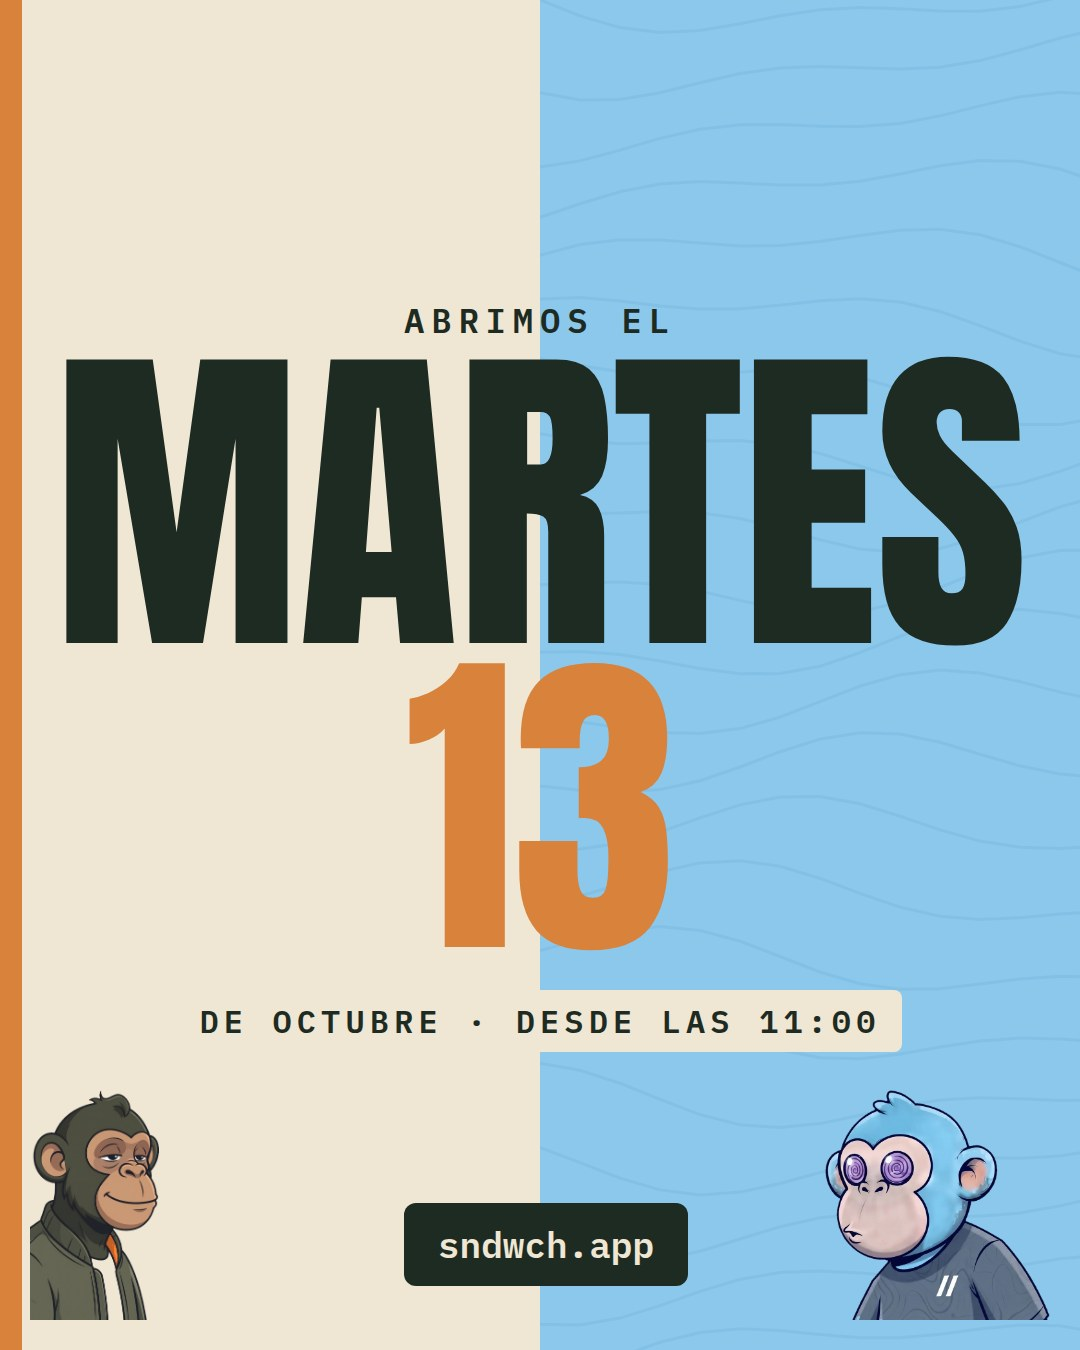
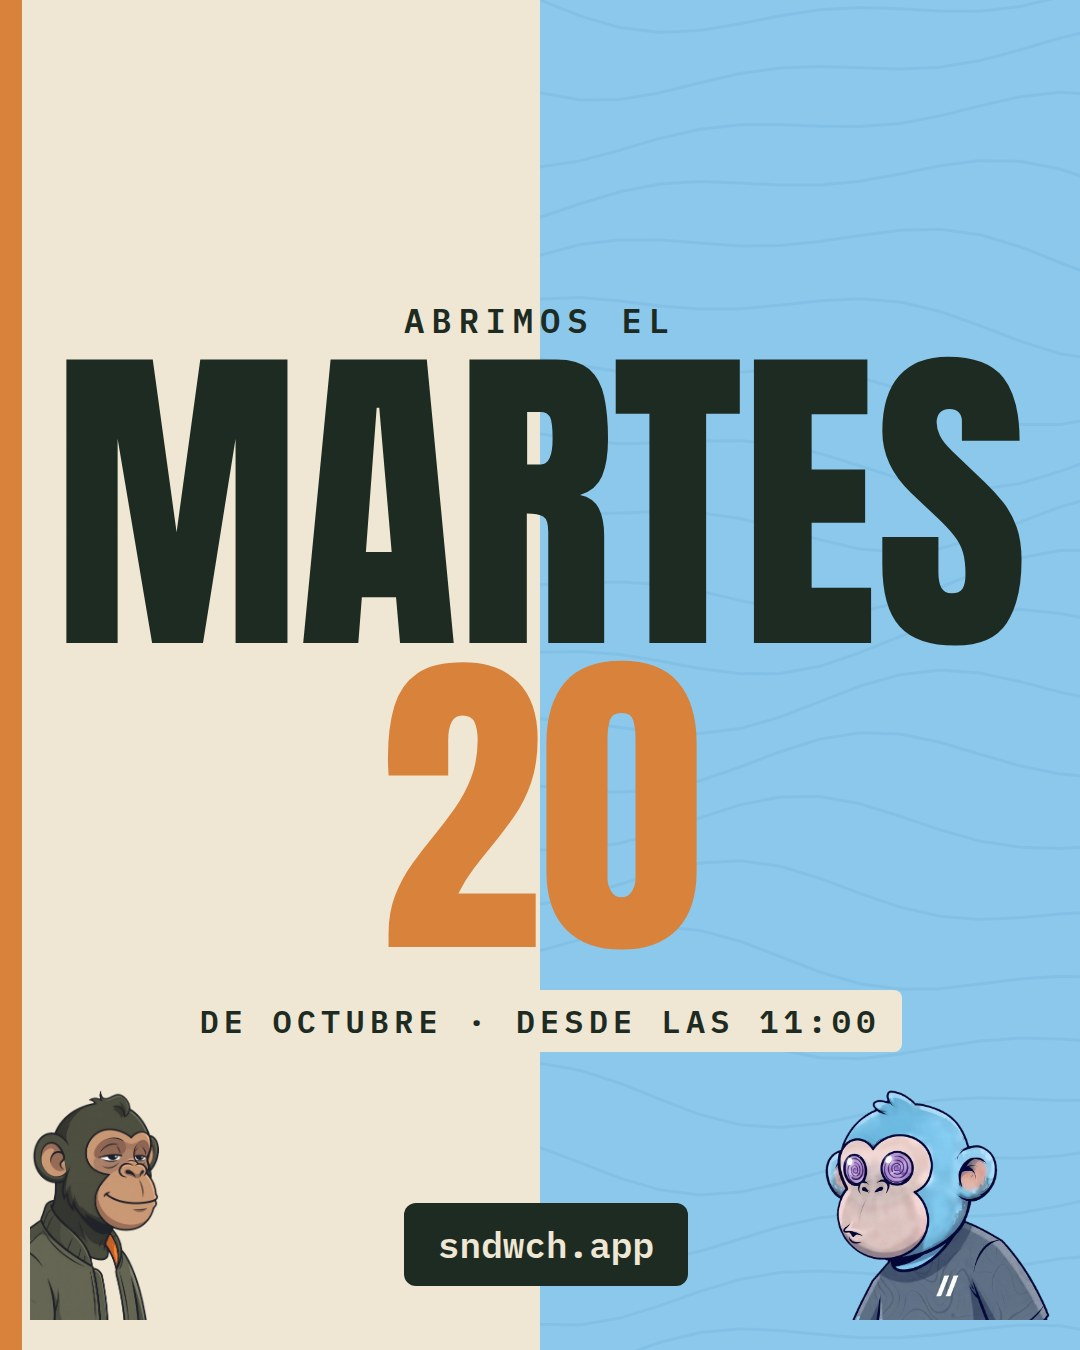
La apertura pasa al martes 20 de octubre (dueño: «retrasamos la apertura una semana»)
- APERTURA = 2026-10-20: el revisor no aprueba nada antes.
- «Abrimos el martes 20» (imagen y texto) y la fecha de las piezas de
  lanzamiento salen de APERTURA, ya no van escritos.
- La semana de la apertura y sus 18 encargos a Flow pasan del 12-18 al 19-25.
- LUNES.md no reescribe una semana que ya existe.
- El modelo financiero toma el lunes 19; docs y CLAUDE.md, al día.
- La prueba del revisor deriva su día abierto de APERTURA (se vio fallar).
- INSTALAR.md: cómo actualizar el Estudio en la laptop.

Claude-Session: https://claude.ai/code/session_01NCVgixMFGDjTdiWThGTz7g

Changed region(s): [[0.3361, 0.4667, 0.6722, 0.7156]]

diff --git a/tests-api/revisor-de-marketing.test.ts b/tests-api/revisor-de-marketing.test.ts
@@ -3,7 +3,7 @@
 // Cada mañana un video sale a Instagram sin que nadie lo mire: lo único entre un error y el
 // público es `decidir()`. Modo de fallo: SILENCIO, y cuesta plata y lo legal — un precio que la
 // app ya no cobra es publicidad engañosa; un video de algo agotado es pauta tirada; siete videos
-// acumulados antes de abrir saliendo juntos el día 13 queman la cuenta.
+// acumulados antes de abrir saliendo juntos el día de la apertura queman la cuenta.
 //
 // Correr con: npm run test:api
 import { decidir, APERTURA, horaDePublicar } from "../scripts/video-auto/reglas-del-revisor.mjs";
@@ -14,7 +14,9 @@ function assertEquals<T>(actual: T, expected: T, msg?: string) {
   if (JSON.stringify(actual) !== JSON.stringify(expected)) throw new Error(msg ?? `esperaba ${JSON.stringify(expected)}, recibí ${JSON.stringify(actual)}`);
 }
 const SIG = unSignature();
-const ABIERTO = "2026-10-14";
+// Un día ya abierto: el siguiente a APERTURA (fijo hasta el 2026-10-08, cuando la apertura pasó del
+// 13 al 20 y estas pruebas, con «2026-10-14» escrito, quedaron antes de abrir).
+const ABIERTO = new Date(Date.parse(`${APERTURA}T12:00:00Z`) + 864e5).toISOString().slice(0, 10);
 const cat = (p15 = 22.9, p30 = 33.9, inStock = true) => ({ sigItems: { [SIG]: { p15, p30, prot: "P9X", active: true } }, inventory: { [SIG]: { inStock } } });
 const pieza = (src: string, creada: string, p15 = 22.9, p30 = 33.9) => ({
   id: src, src, created_at: creada, datos: { sig: SIG, p15, p30 },

diff --git a/modelo/modelo_v11.py b/modelo/modelo_v11.py
@@ -61,7 +61,7 @@ FIJOS_MES       = 500.0   # [MEDIDO] opera desde casa, sin planilla
 CAP_POR_PERSONA = 40      # [MEDIDO] cocina por tandas; en servicio solo arma
 SUELDO          = 1500.0  # [DECISIÓN] dueño 2026-09-02
 COSTO_REFERIDO  = 7.65    # [MEDIDO] insumo del 15CM de R06 + bebida de R05
-APERTURA        = date(2026, 10, 12)  # [MEDIDO] techo que puso el dueño; el 12 es lunes (cerrado)
+APERTURA        = date(2026, 10, 19)  # [MEDIDO] dueño 2026-10-08: abre el martes 20; el 19 es lunes (cerrado)
 CERRADO_WEEKDAY = 0       # [MEDIDO] lunes cerrado
 
 META_M3, MES_M3 = 4000.0, 3   # [DECISIÓN] dueño 2026-09-02: desde el mes 3, neto ≥ S/4,000
@@ -324,7 +324,7 @@ if __name__ == "__main__":
 
     sep('SND//WCH — MODELO v11 · PROYECCIÓN A 3 Y 6 MESES · 20,000 ESCENARIOS')
     print(f"""
-  Apertura: {APERTURA:%d de %B de %Y} (el techo que puso el dueño). Lunes cerrado.
+  Apertura: {APERTURA:%d de %B de %Y} (lunes; se abre el martes siguiente). Lunes cerrado.
   Mes 3 = {ETIQ[DESDE_M3]}  ·  Mes 6 = {ETIQ[DESDE_M6]}   ← derivados del calendario, no escritos a mano
   Objetivo [DECISIÓN del dueño]: neto >= {s(META_M3)} desde el mes 3 y >= {s(META_M6)} desde el mes 6,
   TODOS los meses. No es un pico: basta un mes por debajo para romperlo.

diff --git a/modelo/modelo_v14.py b/modelo/modelo_v14.py
@@ -64,7 +64,9 @@ IGV             = 0.18
 CONTRIB_NETA    = CONTRIB_PEDIDO - OVERHEAD_PEDIDO
 
 from datetime import date, timedelta  # noqa: E402
-APERTURA = date(2026, 10, 12)
+# [MEDIDO] dueño 2026-10-08: «retrasamos la apertura una semana». Abre el martes 20; se toma el
+# lunes 19 (cerrado) como en el cálculo anterior, que tomaba el lunes 12 para abrir el martes 13.
+APERTURA = date(2026, 10, 19)
 CERRADO_WEEKDAY = 0        # [MEDIDO] lunes cerrado
 MESES = 24
 

diff --git a/docs/PENDIENTE_DEL_DUENO.md b/docs/PENDIENTE_DEL_DUENO.md
@@ -1,6 +1,6 @@
 # Lo que depende de ti — SND//WCH
 
-Última actualización: 2026-10-07 · **Apertura al público: martes 13 de octubre de 2026** (los lunes cerrado). Permisos, precios reales y motorizados: listos.
+Última actualización: 2026-10-08 · **Apertura al público: martes 20 de octubre de 2026** (los lunes cerrado; el dueño la movió del 13 el 2026-10-08: «retrasamos la apertura una semana»). Permisos, precios reales y motorizados: listos.
 
 Todo lo de esta lista está bloqueado por algo que **solo tú** puedes conseguir: una cuenta,
 un secret, una cotización, una fecha real. Yo no lo puedo inventar — es la misma regla que
@@ -98,7 +98,7 @@ lo tacho.
 | P22 | **Agrega `https://www.sndwch.app/*` a la restricción de tu key de Google Maps** (Google Cloud → Credenciales → tu key → Restricciones de sitios web) | Probé la key contra Google: con `https://sndwch.app/` **funciona** y devuelve "Av. España 1234, Trujillo" — con el número, que es justo lo que antes no encontraba. Con `https://www.sndwch.app/` responde **403 bloqueado**. Si alguien entra por `www`, la búsqueda cae al buscador viejo **en silencio**: no da error, solo vuelve a no encontrar números. Es agregar una línea a esa lista |
 | P23 | **Pon el `META_PIXEL_ID` en Supabase y genera el `META_CAPI_TOKEN`** (paso a paso en `docs/CONFIGURAR_META.md`) | Es el **bloqueo número uno del negocio**: sin esto el CAC sale de blogs de agencia y todo el modelo financiero cuelga de un número que nadie midió. Lo legal ya está resuelto — la Política de Privacidad se corrigió y hay un interruptor real de oposición, así que ya puedes prenderlo sin que la app prometa una cosa y haga otra |
 | P33 | **Para que el equipo de marketing publique solo: el token de tu página «Snd//wch»** (2026-10-07) | Verificado contra Supabase: **faltan `META_PAGE_ACCESS_TOKEN`, `META_PAGE_ID` y `META_IG_USER_ID`**, por eso el calendario nunca publicó nada. El video del día y el Revisor ya funcionan; sin esto el video queda aprobado y no sale. Pasos (≈10 min): business.facebook.com → Configuración → Usuarios del sistema → crea uno con acceso a la página «Snd//wch» y a tu Instagram → **Generar token** con `pages_manage_posts`, `pages_read_engagement`, `instagram_basic`, `instagram_content_publish`, sin vencimiento → pégalo en Supabase → Edge Functions → Secrets como `META_PAGE_ACCESS_TOKEN`. **Es lo único que pegas**: la página (id `1188463894356831`) y el Instagram los saca el servidor del propio token. **Además**: la cuenta de anuncios 221839797 no tiene ni la página ni el Instagram vinculados; para la pauta del 27 oct, en Configuración del negocio → Cuentas publicitarias → asigna la página «Snd//wch» y conecta el Instagram |
-| P34 | **Aprobar la bolsa a una tinta y pedir la serigrafía** (2026-10-08) | `docs/marketing/bolsa/README.md`: frente y dorso, PDF con sangrado. Pregunta a la imprenta el mínimo y el plazo; si no llega para el 13, sale con bolsa lisa y la impresa entra después. Antes del tiraje, escanea el QR de la prueba |
+| P34 | **Aprobar la bolsa a una tinta y pedir la serigrafía** (2026-10-08) | `docs/marketing/bolsa/README.md`: frente y dorso, PDF con sangrado. Pregunta a la imprenta el mínimo y el plazo; si no llega para el 20, sale con bolsa lisa y la impresa entra después. Antes del tiraje, escanea el QR de la prueba |
 | P35 | **Meta, lo que falta en orden: página e Instagram al Business, tus permisos, método de pago y el token permanente** (2026-10-08) | Verificado contra la API: CAPI ✓ y el conjunto conectado ✓. Falta lo de `docs/CONFIGURAR_META.md` §C (C1 a C6). El pago sale en gris por permisos (C3). Sin C6 (= P33) no se publica nada |
 | P36 | **Instalar el Estudio automático en tu laptop** (2026-10-08) — **instalado por el dueño; falta la primera corrida** | Una vez, ~3 min: `docs/marketing/estudio/INSTALAR.md`. Después la laptop genera en Flow sola (7:30 y 19:30) y hace el lunes de la agencia |
 | ~~P37~~ | ~~El enlace del perfil de Instagram con su origen~~ — **hecho por el dueño el 2026-10-08** | Pon `https://sndwch.app/?src=ig-bio` como sitio web del perfil: las historias ya no llevan sticker y mandan al enlace del perfil; con el `src` se mide lo que traen |

diff --git a/docs/marketing/semanas/2026-10-19/HISTORIAS.md b/docs/marketing/semanas/2026-10-19/HISTORIAS.md
@@ -1,4 +1,4 @@
-# Historias · semana del 12 de octubre (propuesta para aprobar)
+# Historias · semana del 19 de octubre (propuesta para aprobar)
 
 Hechas por la agencia nueva desde `BRIEF.md`. **Cada cuadro es una imagen nueva de Flow**; mientras
 no existe, el tablero muestra el esquema de la escena encargada. **El tablero de un vistazo:**
@@ -7,13 +7,13 @@ no existe, el tablero muestra el esquema de la escena encargada. **El tablero de
 
 | día y hora | historia | momento | cuadros |
 |---|---|---|---|
-| lun 12 · 19:00 | **Mañana** | antes de abrir | WICHO «¿Mañana?» → SANDO «Mañana.» → la puerta con luz: «Martes, desde las 11:00.» |
-| mar 13 · 10:50 | **La puerta** | apertura (hero) | WICHO «Ya casi.» → SANDO mira el reloj: «11:00.» → la puerta abierta: «Abierto.» |
-| mar 13 · 12:00 | **¿La de quién?** | almuerzo de oficina | SANDO «Hay dos maneras de pedir bien.» → WICHO «La de SANDO, o la tuya.» |
-| mié 14 · 11:30 | **La lista** | almuerzo de oficina | WICHO con la lista hasta el piso: «¿Y la oficina?» → los celulares: «Cada uno elige lo suyo desde su celular.» → «Con 5, el más barato va gratis.» |
-| jue 15 · 19:30 | **Ya lo pensé yo** | noche sin cocinar | SANDO en la mesa: «No pienses.» → «Ya lo pensé yo.» |
-| vie 16 · 16:30 | **Arma el tuyo** | el antojo de la tarde | WICHO arma en el aire: «Tamaño. Pan. Proteína. Queso. Vegetales. Salsas.» → «Tú decides cada capa.» → «Ármalo.» |
-| dom 18 · 20:00 | **Mañana descansamos** | domingo | SANDO limpia su tabla: «Mañana descansamos.» → «Hoy, hasta las 22:00.» |
+| lun 19 · 19:00 | **Mañana** | antes de abrir | WICHO «¿Mañana?» → SANDO «Mañana.» → la puerta con luz: «Martes, desde las 11:00.» |
+| mar 20 · 10:50 | **La puerta** | apertura (hero) | WICHO «Ya casi.» → SANDO mira el reloj: «11:00.» → la puerta abierta: «Abierto.» |
+| mar 20 · 12:00 | **¿La de quién?** | almuerzo de oficina | SANDO «Hay dos maneras de pedir bien.» → WICHO «La de SANDO, o la tuya.» |
+| mié 21 · 11:30 | **La lista** | almuerzo de oficina | WICHO con la lista hasta el piso: «¿Y la oficina?» → los celulares: «Cada uno elige lo suyo desde su celular.» → «Con 5, el más barato va gratis.» |
+| jue 22 · 19:30 | **Ya lo pensé yo** | noche sin cocinar | SANDO en la mesa: «No pienses.» → «Ya lo pensé yo.» |
+| vie 23 · 16:30 | **Arma el tuyo** | el antojo de la tarde | WICHO arma en el aire: «Tamaño. Pan. Proteína. Queso. Vegetales. Salsas.» → «Tú decides cada capa.» → «Ármalo.» |
+| dom 25 · 20:00 | **Mañana descansamos** | domingo | SANDO limpia su tabla: «Mañana descansamos.» → «Hoy, hasta las 22:00.» |
 
 **El último cuadro de cada historia** lleva el pie «sndwch.app · enlace en el perfil». Las cifras y
 horas **no están escritas**: salen del horario de la base, de `REGLAS.organizadorDesde` y de los

diff --git a/docs/marketing/LO_QUE_FALTA.md b/docs/marketing/LO_QUE_FALTA.md
@@ -3,9 +3,9 @@
 Dueño: «El Instagram está vacío: no hay nada más que una foto de perfil. ¿Qué más necesita el
 proceso de marketing?». Con la cuenta vacía cambia el orden: **quien llegue desde un video, un
 anuncio o la bolsa va a ver un perfil sin nada, y se va**. Antes que producir más, hay que
-llenar la vitrina. Abrimos el **martes 13**: quedan 6 días.
+llenar la vitrina. Abrimos el **martes 20** (el dueño la movió del 13 el 2026-10-08).
 
-## 1 · Antes del 13 (lo que bloquea)
+## 1 · Antes del 20 (lo que bloquea)
 
 | # | qué | quién | por qué bloquea |
 |---|---|---|---|
@@ -15,13 +15,13 @@ llenar la vitrina. Abrimos el **martes 13**: quedan 6 días.
 | 4 | **Token de la página (P33)** y la página + Instagram vinculados a la cuenta de anuncios | **tú** (10 min) | sin token no se publica nada solo; sin vínculo no hay pauta el 27 |
 | 5 | **Cómo apruebas desde el celular**: hoy las propuestas viven en documentos | yo (una lista en el panel, o te la mando por aquí con un «sí» por pieza) | el ciclo de la agencia se traba si aprobar cuesta |
 
-## 2 · La primera semana abierta (13–19 oct)
+## 2 · La primera semana abierta (20–26 oct)
 
 | # | qué | quién |
 |---|---|---|
-| 6 | **Calendario editorial** del 13 oct al 9 nov: qué sale cada día, en qué formato y a qué hora | yo, sobre `IDEAS.md` aprobadas |
+| 6 | **Calendario editorial** del 20 oct al 16 nov: qué sale cada día, en qué formato y a qué hora | yo, sobre `IDEAS.md` aprobadas |
 | 7 | **Kit de plantillas** de la marca para carrusel, póster, historia y portada de Reel: todo se ve como un mismo sistema | yo, para que tú apruebes una vez |
-| 8 | **La campaña de apertura**: el concepto del 13 (qué se dice, en qué piezas). Una oferta de apertura **solo si la decides tú** (es plata) | yo propongo, tú decides |
+| 8 | **La campaña de apertura**: el concepto del 20 (qué se dice, en qué piezas). Una oferta de apertura **solo si la decides tú** (es plata) | yo propongo, tú decides |
 | 9 | **Primeros seguidores**: con 0 seguidores, el alcance orgánico arranca casi en cero. Reels sí llega a no seguidores; además: tu red personal, la tarjeta de la bolsa con QR, los clientes de Rappi | yo diseño, tú invitas a tu red |
 | 10 | **TikTok creado y conectado** (dijiste que lo habilitas tú) · **Google Business verificado** · **WhatsApp Business** con catálogo y respuestas rápidas (P7) | **tú** |
 

diff --git a/docs/sesiones/2026-10-08.md b/docs/sesiones/2026-10-08.md
@@ -100,3 +100,22 @@
   pueden pedir pocas.
 - El dueño descartó publicar con la «Instagram API with Instagram Login» sin página: «todos los
   anuncios serán en Instagram en realidad».
+
+## La apertura pasa al martes 20 de octubre
+- Dueño: «retrasamos la apertura una semana. La IA de Meta indica que se puede deber a que recién
+  hoy agregamos como admin. Sigamos con lo demás que falta para tener todo listo». El vínculo de
+  Instagram queda esperando a Meta. El token propio de Instagram, sin página, no se construye: el
+  dueño no lo aprobó.
+- Movido al 20: `APERTURA` (el revisor no aprueba nada antes), la pieza «Abrimos el martes 20» y su
+  texto, ahora DERIVADOS de `APERTURA`. Las piezas de lanzamiento se cargan con fecha de la víspera,
+  también derivada. La semana de la apertura (`semanas/2026-10-19`, 7 historias) y sus 18 encargos
+  a Flow pasan del 12–18 al 19–25. El modelo financiero (v11 y v14) toma ahora el lunes 19.
+  También se actualizaron CLAUDE.md y los documentos que nombraban el 13.
+- `LUNES.md` no toca una semana que ya existe. Sin esa regla, el ciclo del lunes 12 habría
+  reescrito la semana de la apertura.
+- La prueba del revisor tenía «2026-10-14» como día abierto. Se vio fallar con la fecha nueva
+  (6 rojas) y ahora deriva su día abierto de `APERTURA`.
+- El arreglo del Estudio (`dbfe20e`: solo ASCII, `-Visible`, registro en GitHub) entra a main.
+  `INSTALAR.md` explica cómo actualizar la laptop una vez.
+- Sigue pendiente `PREDICCION_V14.md`: sus cifras se calcularon con la apertura del 13, una semana
+  antes. Es simulación; se rehace cuando haya datos reales.

diff --git a/docs/marketing/estudio/INSTALAR.md b/docs/marketing/estudio/INSTALAR.md
@@ -10,6 +10,24 @@ Dueño, 2026-10-08: «sí, deja 100% automático lo de Flow». Después de esto,
 Tú no haces nada más. Solo deja la laptop **prendida o en suspensión** (no apagada) y con tu sesión
 de Windows iniciada. Si estaba apagada a esa hora, corre apenas la prendes.
 
+## Si ya lo instalaste y «no abrió nada» (arreglo del 2026-10-08)
+
+La primera versión tenía rayas y comillas tipográficas, y el PowerShell de Windows las lee mal y no
+corre. La nueva es solo ASCII, te deja verlo todo en pantalla y sube un registro de cada corrida a
+GitHub, así veo qué pasó sin preguntarte. Tu laptop tiene la versión vieja: actualízala una vez.
+
+1. Abre **PowerShell** y pega esto (actualiza el clon y vuelve a instalar la tarea):
+   ```
+   cd $HOME\sndwch-estudio; git fetch origin; git checkout -B estudio origin/main; powershell -ExecutionPolicy Bypass -File scripts\estudio\instalar.ps1
+   ```
+2. Pruébalo **a la vista**, sin la tarea programada:
+   ```
+   powershell -ExecutionPolicy Bypass -File $HOME\sndwch-estudio\scripts\estudio\estudio.ps1 -Visible
+   ```
+   Ves cada paso en la ventana. **Si se abre una ventana para iniciar sesión en GitHub, entra con
+   tu cuenta**: es la primera vez que la laptop sube algo y después ya no lo pide.
+3. Mándame una captura de la ventana cuando termine. El registro también me llega por GitHub.
+
 ## Los pasos
 
 1. Abre **PowerShell** (tecla Windows → escribe «PowerShell» → Enter).

diff --git a/docs/marketing/RESPUESTAS_AUTOMATICAS.md b/docs/marketing/RESPUESTAS_AUTOMATICAS.md
@@ -3,9 +3,9 @@
 Dueño: «Ayúdame a configurar WhatsApp Business en automático… automatiza las respuestas de IG y
 de WhatsApp. Hazlo, lo más prioritario hoy».
 
-## Qué se puede tener para el martes 13, y qué viene después
+## Qué se puede tener para el martes 20 (la apertura, movida del 13), y qué viene después
 
-| | para el 13 (gratis, sin revisión de Meta) | después (bot propio que responde con datos reales) |
+| | para el 20 (gratis, sin revisión de Meta) | después (bot propio que responde con datos reales) |
 |---|---|---|
 | **WhatsApp** | App **WhatsApp Business**: bienvenida, ausencia, respuestas rápidas, catálogo, etiquetas | API de WhatsApp en el mismo número («coexistencia»): exige **7 días de uso** del número en la app Business. Desde el 1-oct-2026 cada número tiene **1,000 mensajes de servicio gratis al mes**; luego Meta cobra ([precios de Meta](https://developers.facebook.com/documentation/business-messaging/whatsapp/pricing)). Lo que mandas desde la app sigue gratis |
 | **Instagram / Facebook** | **Meta Business Suite**: respuesta instantánea, ausencia, preguntas frecuentes, respuestas guardadas | API de mensajería: responder a cualquier persona exige **revisión de la app por Meta** ([guía de Meta](https://developers.facebook.com/documentation/business-messaging/instagram-messaging/app-review/apps-for-your-own-business)); con el token del paso B de `CONFIGURAR_META.md` ya pedido con esos permisos |

diff --git a/scripts/estudio/LUNES.md b/scripts/estudio/LUNES.md
@@ -7,11 +7,14 @@ LEE, en este orden: `docs/marketing/AGENCIA.md` (entero), la carpeta de la seman
 BIBLIA_DE_LA_SERIE.md`, `docs/UNIVERSO_SNDWCH.md` §4–5, `docs/marketing/estudio/README.md`, y los
 datos vivos de `scripts/piezas/datos.ts` (lee el archivo: la carta, los pasos, la regla del grupo).
 
-ESCRIBE la semana que empieza el PRÓXIMO lunes, en `docs/marketing/semanas/<AAAA-MM-DD>/`:
+ESCRIBE la semana que empieza el PRÓXIMO lunes, en `docs/marketing/semanas/<AAAA-MM-DD>/`.
+SI ESA CARPETA YA EXISTE, NO LA TOQUES: ya la planificó alguien (2026-10-08: la de la apertura se
+movió al 19). Responde «la semana <fecha> ya estaba hecha» y termina.
+
 1. `BRIEF.md`, con la plantilla de AGENCIA.md §4. El objetivo es siempre la mayor cantidad de
    pedidos reales de gente fuera de la red del dueño. LA IDEA cambia cada semana: sale de lo que
    dijo DATOS.md (si existe) y de lo que no funcionó.
-2. `historias.json` con el MISMO formato que `semanas/2026-10-12/historias.json`: 6 o 7 historias,
+2. `historias.json` con el MISMO formato que `semanas/2026-10-19/historias.json`: 6 o 7 historias,
    martes a domingo (lunes cerrado), cada una atada a un momento de compra (AGENCIA.md §2.2), de
    2 a 3 cuadros. Cada cuadro: `encargo`, `personaje` (SANDO, WICHO o null), `texto`, `voz`
    (sando, wicho o neutra) y `escena`.

diff --git a/docs/marketing/FLOW_LANZAMIENTO.md b/docs/marketing/FLOW_LANZAMIENTO.md
@@ -47,7 +47,7 @@ Any sandwich shown is a long sub/hoagie roll with exactly the real recipe stated
 | `sexta-salsa-4` | La tira, viñeta 4 | SANDO calmly holding up ONE sauce bottle, unimpressed; behind him a tidy wooden board. |
 | `arma-portada` | Arma el tuyo | WICHO building a sub in mid-air: bread open, slices of turkey, tomato, onion, pepper and cheese floating in a spiral above it. |
 | `oficina` | ¿Pides para la oficina? | WICHO walking in with a paper list so long it drags on the floor, a tower of delivery bags in the other arm, proud. |
-| `abrimos` | Abrimos el martes 13 | SANDO and WICHO opening the kitchen doors from inside, warm light spilling out toward the viewer, WICHO peeking, SANDO steady. |
+| `abrimos` | Abrimos el martes 20 | SANDO and WICHO opening the kitchen doors from inside, warm light spilling out toward the viewer, WICHO peeking, SANDO steady. |
 | `philly-anatomia` | Anatomía del Philly | Exploded vertical view of a Philly Cheesesteak sub, PHOTOREALISTIC food: bottom bun, thin seared beef, sautéed onion, green pepper strips, melted cheddar, top bun, each layer floating slightly apart. No sauce. Real portion, not oversized. Dark background. |
 
 La última es el sándwich generado: **fiel a la receta** (res laminada, cebolla, pimiento, cheddar,

diff --git a/docs/marketing/bolsa/README.md b/docs/marketing/bolsa/README.md
@@ -39,7 +39,7 @@ propios y en los de Rappi, así que no dice nada que en Rappi no sea cierto.
 | **Caras** | frente y dorso (dos pantallas, la misma tinta). Si solo puedes una cara, **imprime el dorso**: es el que trae pedidos |
 | **Medida** | el arte es para una cara de 24 × 30 cm (PDF con 3 mm de sangrado: 24.6 × 30.6 cm). **Los 6 cm de arriba quedan bajo el doblez**, así que ahí no va nada. Si tu bolsa mide otra cosa, se regenera a su medida |
 | **QR** | 5.2 cm. **Antes del tiraje, escanea la prueba impresa** con dos celulares distintos: el kraft da menos contraste que el papel blanco |
-| **Cómo** | serigrafía sobre la bolsa kraft que ya cotizaste (S/0.35, `docs/NEGOCIO.md`). Pregunta el mínimo y el plazo: si no llega para el 13, sale con bolsa lisa y la impresa entra después |
+| **Cómo** | serigrafía sobre la bolsa kraft que ya cotizaste (S/0.35, `docs/NEGOCIO.md`). Pregunta el mínimo y el plazo: si no llega para el 20, sale con bolsa lisa y la impresa entra después |
 
 ## Más adelante (diseñado, no se imprime ahora)
 
